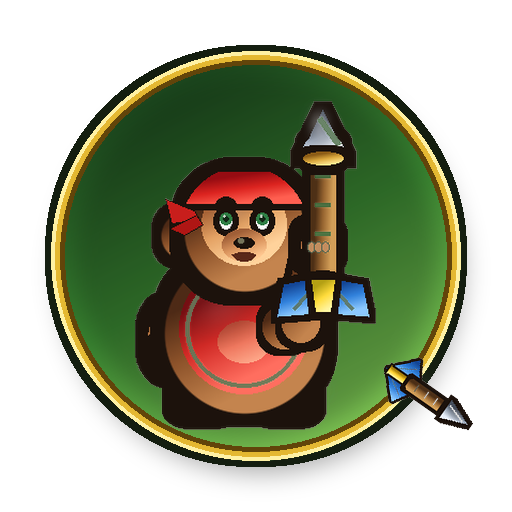
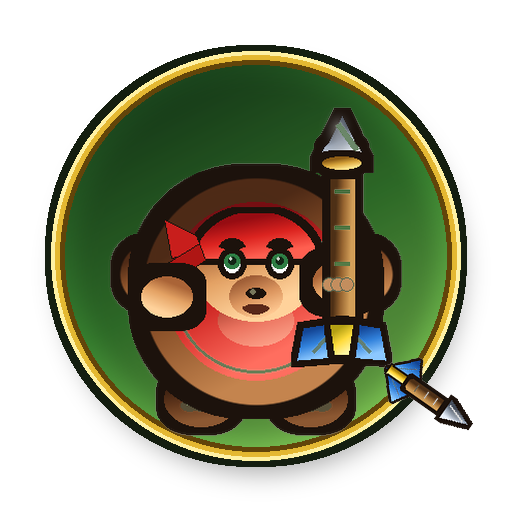
Fix Dart Monkey to true top-down standing pose
Redraw the monkey as a circular top-down disc like sniper/ninja/boomer:
face toward UP, feet planted at the bottom of the body, dart pointing
up. Removes the previous side/portrait stance.

Changed region(s): [[0.1875, 0.1875, 0.8125, 0.875]]

diff --git a/tools/build_dart_overhaul.py b/tools/build_dart_overhaul.py
@@ -282,255 +282,215 @@ def draw_dart_weapon(im, S, cx, tip_y, base_y, variant, ow, show_flights=True):
 
 
 def draw_monkey(S: int, variant: str = "idle") -> Image.Image:
-    """Top-down BTD Dart Monkey facing UP. variant: idle|idle1|recoil|recover.
+    """True top-down Dart Monkey (same camera as sniper/ninja/boomer).
 
-    Weapon is held on the RIGHT of the body pointing UP so the face stays clear
-    (pass-1 bug: centered dart flights read as a face-visor).
+    Seen from ABOVE: circular body, face toward UP (12 o'clock), feet at the
+    bottom of the disc (standing on the pad), dart held pointing UP.
+    variant: idle|idle1|recoil|recover
     """
     im = canvas(S)
-    ow = max(2, round(S * 0.032))
+    ow = max(2, round(S * 0.034))
     cx = S * 0.5
 
+    # subtle pose offsets (still top-down — no side-view lean)
     bob = 0.0
-    lean = 0.0
     if variant == "idle1":
-        bob = -S * 0.012
-    elif variant == "recoil":
-        lean = S * 0.035          # wind-up: sit back
-    elif variant == "recover":
-        lean = -S * 0.028         # follow-through: lean forward
+        bob = -S * 0.008
 
-    body_cy = S * 0.60 + bob + lean * 0.4
-    head_cy = S * 0.34 + bob + lean * 0.55
-    br = S * 0.205
-    hr = S * 0.155
+    # main disc centre slightly below mid so dart tip has room above
+    cy = S * 0.55 + bob
+    R = S * 0.30  # body radius (matches other monkeys' circular silhouettes)
 
-    # ground shadow
+    # soft ground shadow under the standing disc
     sh = canvas(S)
     d = ImageDraw.Draw(sh)
-    d.ellipse((cx - br * 1.1, body_cy + br * 0.4, cx + br * 1.1, body_cy + br * 1.0),
-              fill=(0, 0, 0, 78))
-    over(im, blur(sh, S * 0.022))
+    d.ellipse((cx - R * 1.05, cy - R * 0.85, cx + R * 1.05, cy + R * 1.05),
+              fill=(0, 0, 0, 70))
+    over(im, blur(sh, S * 0.02))
 
-    # ---- feet
+    # ---- feet at BOTTOM of disc (standing on pad; same placement as boomer/sniper) ----
     for side in (-1, 1):
-        fx = cx + side * br * 0.52
-        fy = body_cy + br * 0.78
-        _draw_limb_ellipse(
-            im, S,
-            (fx - S * 0.068, fy - S * 0.04, fx + S * 0.068, fy + S * 0.05),
-            FUR_DARK, ow, light_dir=(-0.3, -0.9))
+        fx = cx + side * R * 0.48
+        fy = cy + R * 0.95          # clearly below body rim = planted on ground
+        frx, fry = R * 0.32, R * 0.24
+        fm = _ellipse_mask(S, (fx - frx, fy - fry, fx + frx, fy + fry))
+        over(im, mask_fill(dilate(fm, max(2, ow * 2 // 3)), OUTLINE + (255,)))
+        over(im, shade_over_mask(fm, FUR_DARK, light_dir=(-0.2, -0.95), light_strength=0.75))
+        # toe pads (top-down)
         d = ImageDraw.Draw(im)
-        for t in (-0.55, 0, 0.55):
-            tx = fx + t * S * 0.028
-            d.ellipse((tx - S * 0.012, fy + S * 0.008, tx + S * 0.012, fy + S * 0.035),
-                      fill=(60, 32, 16, 210))
+        for t in (-0.5, 0.0, 0.5):
+            tx = fx + t * frx * 0.65
+            ty = fy + fry * 0.2
+            tr = frx * 0.24
+            d.ellipse((tx - tr, ty - tr * 0.65, tx + tr, ty + tr * 0.65),
+                      fill=(55, 30, 14, 230))
+            d.ellipse((tx - tr * 0.4, ty - tr * 0.45, tx, ty - tr * 0.05),
+                      fill=(100, 60, 30, 160))
 
-    # ---- hips
+    # ---- ears left/right of head (sides of disc, upper half) ----
     for side in (-1, 1):
-        lx = cx + side * br * 0.40
-        ly = body_cy + br * 0.48
-        _draw_limb_ellipse(
-            im, S,
-            (lx - S * 0.07, ly - S * 0.08, lx + S * 0.07, ly + S * 0.09),
-            FUR_BROWN, ow)
-
-    # ---- back (left) arm resting at side
-    left_x = cx - br * 0.82
-    left_y = body_cy + br * 0.02
-    if variant == "recover":
-        left_y = body_cy - br * 0.05
-    _draw_limb_ellipse(
-        im, S,
-        (left_x - S * 0.075, left_y - S * 0.08, left_x + S * 0.085, left_y + S * 0.1),
-        FUR_BROWN, ow, light_dir=(0.5, -0.7))
-    _draw_limb_ellipse(
-        im, S,
-        (left_x - S * 0.05, left_y + S * 0.02, left_x + S * 0.04, left_y + S * 0.1),
-        SKIN, ow)
-
-    # ---- torso + red shirt
-    body_m = _circle_mask(S, cx, body_cy, br)
-    over(im, mask_fill(dilate(body_m, ow), OUTLINE + (255,)))
-    over(im, shaded_disc(S, cx, body_cy, br, FUR_BROWN, light_strength=0.78))
-    shirt_r = br * 0.80
-    shirt_cy = body_cy - br * 0.05
-    over(im, shade_over_mask(_circle_mask(S, cx, shirt_cy, shirt_r),
-                             RED_SHIRT, light_strength=0.75))
-    d = ImageDraw.Draw(im)
-    d.ellipse((cx - shirt_r * 0.9, shirt_cy - shirt_r * 0.9,
-               cx + shirt_r * 0.9, shirt_cy + shirt_r * 0.9),
-              outline=(90, 12, 14, 170), width=max(1, int(S * 0.011)))
-    belly = _ellipse_mask(S, (cx - shirt_r * 0.4, shirt_cy - shirt_r * 0.12,
-                              cx + shirt_r * 0.4, shirt_cy + shirt_r * 0.52))
-    over(im, shade_over_mask(
-        belly, [(0.0, (180, 70, 50)), (0.5, (240, 120, 95)), (1.0, (255, 170, 140))],
-        light_strength=0.5))
-    im = gloss(im, cx - br * 0.28, body_cy - br * 0.32, br * 0.38, br * 0.2,
-               alpha=40, rot=25)
-
-    # ---- head (clean face — no weapon overlap)
-    for side in (-1, 1):
-        ex = cx + side * hr * 0.98
-        ey = head_cy + hr * 0.08
-        er = hr * 0.40
+        ex = cx + side * R * 0.92
+        ey = cy - R * 0.15
+        er = R * 0.28
         em = _circle_mask(S, ex, ey, er)
         over(im, mask_fill(dilate(em, max(2, ow * 2 // 3)), OUTLINE + (255,)))
         over(im, shaded_disc(S, ex, ey, er, FUR_BROWN, light_strength=0.7))
         over(im, shaded_disc(
-            S, ex, ey, er * 0.5,
+            S, ex, ey, er * 0.52,
             [(0.0, (150, 80, 70)), (0.5, (220, 140, 120)), (1.0, (255, 190, 170))],
             light_strength=0.5))
 
-    head_m = _circle_mask(S, cx, head_cy, hr)
-    over(im, mask_fill(dilate(head_m, ow), OUTLINE + (255,)))
-    over(im, shaded_disc(S, cx, head_cy, hr, FUR_BROWN, light_strength=0.8))
+    # ---- main body disc (fur) ----
+    body_m = _circle_mask(S, cx, cy, R)
+    over(im, mask_fill(dilate(body_m, ow), OUTLINE + (255,)))
+    over(im, shaded_disc(S, cx, cy, R, FUR_BROWN, light_strength=0.78))
 
-    face_cy = head_cy - hr * 0.10
-    face_rx, face_ry = hr * 0.70, hr * 0.66
+    # red shirt disc (slightly smaller, centered)
+    shirt_r = R * 0.78
+    over(im, shade_over_mask(_circle_mask(S, cx, cy, shirt_r),
+                             RED_SHIRT, light_strength=0.72))
+    d = ImageDraw.Draw(im)
+    d.ellipse((cx - shirt_r * 0.92, cy - shirt_r * 0.92,
+               cx + shirt_r * 0.92, cy + shirt_r * 0.92),
+              outline=(90, 12, 14, 160), width=max(1, int(S * 0.01)))
+    # belly patch lower-centre (toward feet)
+    belly = _ellipse_mask(S, (cx - shirt_r * 0.42, cy + shirt_r * 0.05,
+                              cx + shirt_r * 0.42, cy + shirt_r * 0.62))
+    over(im, shade_over_mask(
+        belly, [(0.0, (170, 60, 45)), (0.5, (235, 115, 95)), (1.0, (255, 165, 140))],
+        light_strength=0.45))
+    im = gloss(im, cx - R * 0.28, cy - R * 0.35, R * 0.4, R * 0.22, alpha=42, rot=25)
+
+    # ---- face in UPPER half of disc (looking toward UP / aim direction) ----
+    face_cy = cy - R * 0.22
+    face_rx, face_ry = R * 0.55, R * 0.48
     face_m = _ellipse_mask(S, (cx - face_rx, face_cy - face_ry,
                                cx + face_rx, face_cy + face_ry))
     over(im, shade_over_mask(face_m, SKIN, light_strength=0.72))
-    im = gloss(im, cx - hr * 0.22, face_cy - hr * 0.25, hr * 0.28, hr * 0.16,
-               alpha=55, rot=20)
+    im = gloss(im, cx - R * 0.18, face_cy - R * 0.18, R * 0.22, R * 0.12, alpha=55, rot=20)
 
-    # red bandana across crown
+    # red bandana across forehead (top of face, toward UP)
     bm = Image.new("L", (S, S), 0)
     db = ImageDraw.Draw(bm)
-    db.chord((cx - hr * 1.05, head_cy - hr * 1.05, cx + hr * 1.05, head_cy + hr * 1.05),
-             start=205, end=335, fill=255)
-    clip = Image.new("L", (S, S), 0)
-    ImageDraw.Draw(clip).rectangle(
-        (0, head_cy - hr * 0.95, S, head_cy - hr * 0.22), fill=255)
-    bm = Image.composite(bm, Image.new("L", (S, S), 0), clip)
+    db.rectangle((cx - face_rx * 1.05, face_cy - face_ry * 0.95,
+                  cx + face_rx * 1.05, face_cy - face_ry * 0.15), fill=255)
+    bm = Image.composite(bm, Image.new("L", (S, S), 0), face_m)
     over(im, mask_fill(dilate(bm, max(1, ow // 2)), OUTLINE + (255,)))
     over(im, shade_over_mask(bm, BANDANA, light_strength=0.65))
-    # bandana tails left
+    # knot tails left side
     d = ImageDraw.Draw(im)
     d.polygon([
-        (cx - hr * 0.82, head_cy - hr * 0.32),
-        (cx - hr * 1.28, head_cy - hr * 0.52),
-        (cx - hr * 1.18, head_cy - hr * 0.12),
-        (cx - hr * 0.72, head_cy - hr * 0.18),
+        (cx - face_rx * 0.95, face_cy - face_ry * 0.55),
+        (cx - face_rx * 1.45, face_cy - face_ry * 0.85),
+        (cx - face_rx * 1.35, face_cy - face_ry * 0.15),
+        (cx - face_rx * 0.85, face_cy - face_ry * 0.25),
     ], fill=(200, 30, 28, 255), outline=OUTLINE + (255,))
     d.polygon([
-        (cx - hr * 0.78, head_cy - hr * 0.25),
-        (cx - hr * 1.22, head_cy - hr * 0.02),
-        (cx - hr * 0.98, head_cy + hr * 0.08),
-        (cx - hr * 0.68, head_cy - hr * 0.10),
+        (cx - face_rx * 0.9, face_cy - face_ry * 0.4),
+        (cx - face_rx * 1.4, face_cy - face_ry * 0.05),
+        (cx - face_rx * 1.15, face_cy + face_ry * 0.15),
+        (cx - face_rx * 0.8, face_cy - face_ry * 0.1),
     ], fill=(175, 22, 20, 255), outline=OUTLINE + (255,))
 
-    # eyes
-    eye_y = face_cy - hr * 0.06
-    eye_dx = hr * 0.30
+    # eyes (upper face, looking slightly up)
+    eye_y = face_cy - face_ry * 0.05
+    eye_dx = face_rx * 0.38
     for side in (-1, 1):
         ex = cx + side * eye_dx
-        ew, eh = hr * 0.20, hr * 0.24
+        ew, eh = R * 0.12, R * 0.14
         d.ellipse((ex - ew, eye_y - eh, ex + ew, eye_y + eh),
                   fill=(255, 255, 255, 255), outline=OUTLINE + (255,),
                   width=max(1, ow // 2))
-        ir = hr * 0.10
-        iy = eye_y - hr * 0.035
+        ir = R * 0.065
+        iy = eye_y - R * 0.02
         d.ellipse((ex - ir, iy - ir, ex + ir, iy + ir), fill=(46, 125, 68, 255))
         d.ellipse((ex - ir * 0.5, iy - ir * 0.5, ex + ir * 0.5, iy + ir * 0.5),
                   fill=(18, 38, 22, 255))
-        d.ellipse((ex - ir * 0.35, iy - ir * 0.55, ex - ir * 0.05, iy - ir * 0.18),
+        d.ellipse((ex - ir * 0.35, iy - ir * 0.55, ex - ir * 0.05, iy - ir * 0.15),
                   fill=(255, 255, 255, 230))
+    # brows
     for side in (-1, 1):
         ex = cx + side * eye_dx
-        d.arc((ex - hr * 0.18, eye_y - hr * 0.40, ex + hr * 0.18, eye_y),
+        d.arc((ex - R * 0.12, eye_y - R * 0.22, ex + R * 0.12, eye_y),
               start=200, end=340, fill=OUTLINE + (255,), width=max(2, ow))
 
-    # snout
-    sn_cy = face_cy + hr * 0.34
-    sn_rx, sn_ry = hr * 0.36, hr * 0.26
+    # snout / muzzle (lower face, toward body centre)
+    sn_cy = face_cy + face_ry * 0.55
+    sn_rx, sn_ry = face_rx * 0.42, face_ry * 0.38
     sn_m = _ellipse_mask(S, (cx - sn_rx, sn_cy - sn_ry, cx + sn_rx, sn_cy + sn_ry))
     over(im, shade_over_mask(
         sn_m, [(0.0, (160, 95, 55)), (0.5, (220, 150, 95)), (1.0, (255, 200, 145))],
-        light_strength=0.6))
-    nw, nh = hr * 0.17, hr * 0.11
-    d.ellipse((cx - nw, sn_cy - nh * 1.15, cx + nw, sn_cy + nh * 0.35),
+        light_strength=0.55))
+    nw, nh = R * 0.09, R * 0.06
+    d.ellipse((cx - nw, sn_cy - nh * 1.2, cx + nw, sn_cy + nh * 0.3),
               fill=(70, 35, 22, 255), outline=OUTLINE + (255,), width=max(1, ow // 2))
-    d.ellipse((cx - nw * 0.55, sn_cy - nh * 0.95, cx - nw * 0.08, sn_cy - nh * 0.3),
+    d.ellipse((cx - nw * 0.55, sn_cy - nh * 1.0, cx - nw * 0.08, sn_cy - nh * 0.25),
               fill=(120, 70, 50, 200))
-    d.arc((cx - hr * 0.2, sn_cy - hr * 0.02, cx + hr * 0.2, sn_cy + hr * 0.26),
+    d.arc((cx - R * 0.12, sn_cy - R * 0.01, cx + R * 0.12, sn_cy + R * 0.16),
           start=15, end=165, fill=(90, 40, 25, 255), width=max(2, ow))
 
-    # ---- throwing arm (RIGHT) + dart held clear of face ----
-    # Pose table: hand position and dart tip/base
-    if variant == "recoil":
-        # wind-up: arm low-right, dart cocked beside hip, tip still up
-        hx, hy = cx + br * 0.98, body_cy + br * 0.22
-        dart_cx = hx + S * 0.015
-        tip_y = hy - S * 0.24
-        base_y = hy + S * 0.13
-        arm_mid = (cx + br * 0.72, body_cy + br * 0.12)
-    elif variant == "recover":
-        # follow-through: arm high-forward, dart released upward
-        hx, hy = cx + br * 0.42, head_cy - hr * 0.85
-        dart_cx = hx + S * 0.01
-        tip_y = max(S * 0.02, hy - S * 0.28)
-        base_y = hy + S * 0.06
-        arm_mid = (cx + br * 0.68, body_cy - br * 0.45)
-    else:
-        # idle: dart upright to the RIGHT of the head (face fully visible)
-        hx = cx + br * 0.92
-        hy = head_cy + hr * 0.22 + bob
-        if variant == "idle1":
-            hx += S * 0.012
-            hy -= S * 0.012
-        dart_cx = hx + S * 0.012
-        tip_y = hy - S * 0.34
-        base_y = hy + S * 0.10
-        arm_mid = (cx + br * 0.70, body_cy - br * 0.12)
-
-    # slim limbs via oriented capsules (less "blob arm")
-    def _capsule(x0, y0, x1, y1, thick, stops, ld=(-0.5, -0.8)):
-        # approximate with ellipse around segment midpoint, stretched
-        mx, my = (x0 + x1) / 2, (y0 + y1) / 2
-        length = math.hypot(x1 - x0, y1 - y0) + thick
-        ang = math.degrees(math.atan2(y1 - y0, x1 - x0))
-        m = Image.new("L", (S, S), 0)
-        dm = ImageDraw.Draw(m)
-        # draw thick line as capsule
-        dm.line([(x0, y0), (x1, y1)], fill=255, width=max(2, int(thick * 2)))
-        dm.ellipse((x0 - thick, y0 - thick, x0 + thick, y0 + thick), fill=255)
-        dm.ellipse((x1 - thick, y1 - thick, x1 + thick, y1 + thick), fill=255)
-        over(im, mask_fill(dilate(m, max(1, ow // 2)), OUTLINE + (255,)))
-        over(im, shade_over_mask(m, stops, light_dir=ld, light_strength=0.8))
-
-    sx, sy = cx + br * 0.50, body_cy - br * 0.08
-    _capsule(sx, sy, arm_mid[0], arm_mid[1], S * 0.055, FUR_BROWN)
-    _capsule(arm_mid[0], arm_mid[1], hx, hy, S * 0.048, FUR_BROWN, ld=(-0.45, -0.85))
-    # hand
+    # ---- hands on left/right of disc (top-down paws) ----
+    lx = cx - R * 0.78
+    ly = cy + R * 0.05
+    if variant == "recover":
+        ly = cy - R * 0.15
     _draw_limb_ellipse(
         im, S,
-        (hx - S * 0.042, hy - S * 0.04, hx + S * 0.042, hy + S * 0.045),
-        SKIN, ow)
+        (lx - R * 0.22, ly - R * 0.18, lx + R * 0.22, ly + R * 0.18),
+        SKIN, ow, light_dir=(0.4, -0.8))
 
-    # dart ON TOP of hand, clear of face
+    if variant == "recoil":
+        # wind-up: hand lower-right, dart still pointing up but shorter extension
+        hx = cx + R * 0.55
+        hy = cy + R * 0.35
+        dart_cx = hx
+        tip_y = hy - R * 1.15
+        base_y = hy + R * 0.35
+    elif variant == "recover":
+        # throw: hand upper-right, dart extended high
+        hx = cx + R * 0.35
+        hy = cy - R * 0.55
+        dart_cx = hx
+        tip_y = hy - R * 1.35
+        base_y = hy + R * 0.25
+    else:
+        # idle: hand mid-right, dart upright beside head
+        hx = cx + R * 0.72
+        hy = cy - R * 0.08
+        if variant == "idle1":
+            hx += S * 0.01
+            hy -= S * 0.008
+        dart_cx = hx + S * 0.01
+        tip_y = hy - R * 1.45
+        base_y = hy + R * 0.40
+
+    _draw_limb_ellipse(
+        im, S,
+        (hx - R * 0.22, hy - R * 0.18, hx + R * 0.22, hy + R * 0.18),
+        SKIN, ow, light_dir=(-0.5, -0.7))
+
+    # dart pointing UP (on top of hand)
     draw_dart_weapon(im, S, dart_cx, tip_y, base_y, variant, ow, show_flights=True)
 
-    # fingers over shaft (compact so shaft still reads)
+    # fingers over shaft (top-down)
     d = ImageDraw.Draw(im)
-    for ox in (-0.018, 0.0, 0.018):
-        d.ellipse((hx + ox * S - S * 0.01, hy - S * 0.006,
-                   hx + ox * S + S * 0.01, hy + S * 0.022),
+    for ox in (-0.08, 0.0, 0.08):
+        d.ellipse((hx + ox * R - R * 0.06, hy - R * 0.04,
+                   hx + ox * R + R * 0.06, hy + R * 0.08),
                   fill=(210, 140, 90, 245), outline=OUTLINE + (200,))
 
     if variant == "recoil":
         sm = canvas(S)
         dsm = ImageDraw.Draw(sm)
         for i in range(3):
-            wx = cx + (i - 1) * S * 0.055
-            wy = body_cy + br * 0.9
-            wr = S * (0.038 + i * 0.01)
-            dsm.ellipse((wx - wr, wy - wr * 0.45, wx + wr, wy + wr * 0.45),
-                        fill=(180, 150, 100, 95))
-        over(im, blur(sm, S * 0.014))
+            wx = cx + (i - 1) * S * 0.05
+            wy = cy + R * 0.95
+            wr = S * (0.035 + i * 0.01)
+            dsm.ellipse((wx - wr, wy - wr * 0.4, wx + wr, wy + wr * 0.4),
+                        fill=(180, 150, 100, 90))
+        over(im, blur(sm, S * 0.012))
 
     return im
-
 
 
 # ---------------------------------------------------------------- pad
